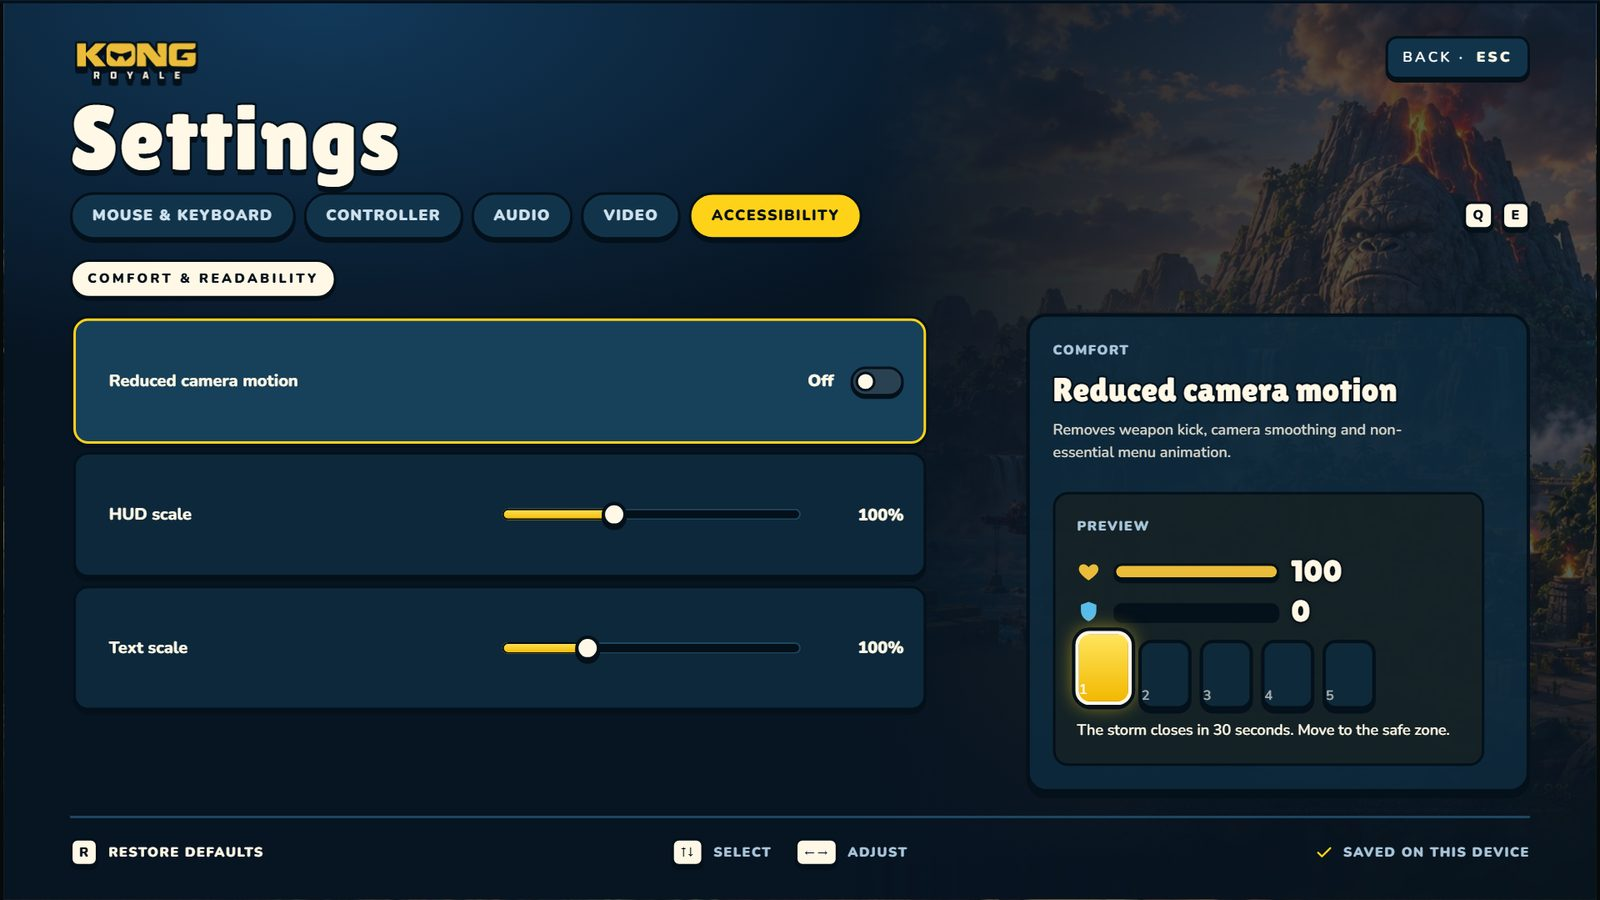
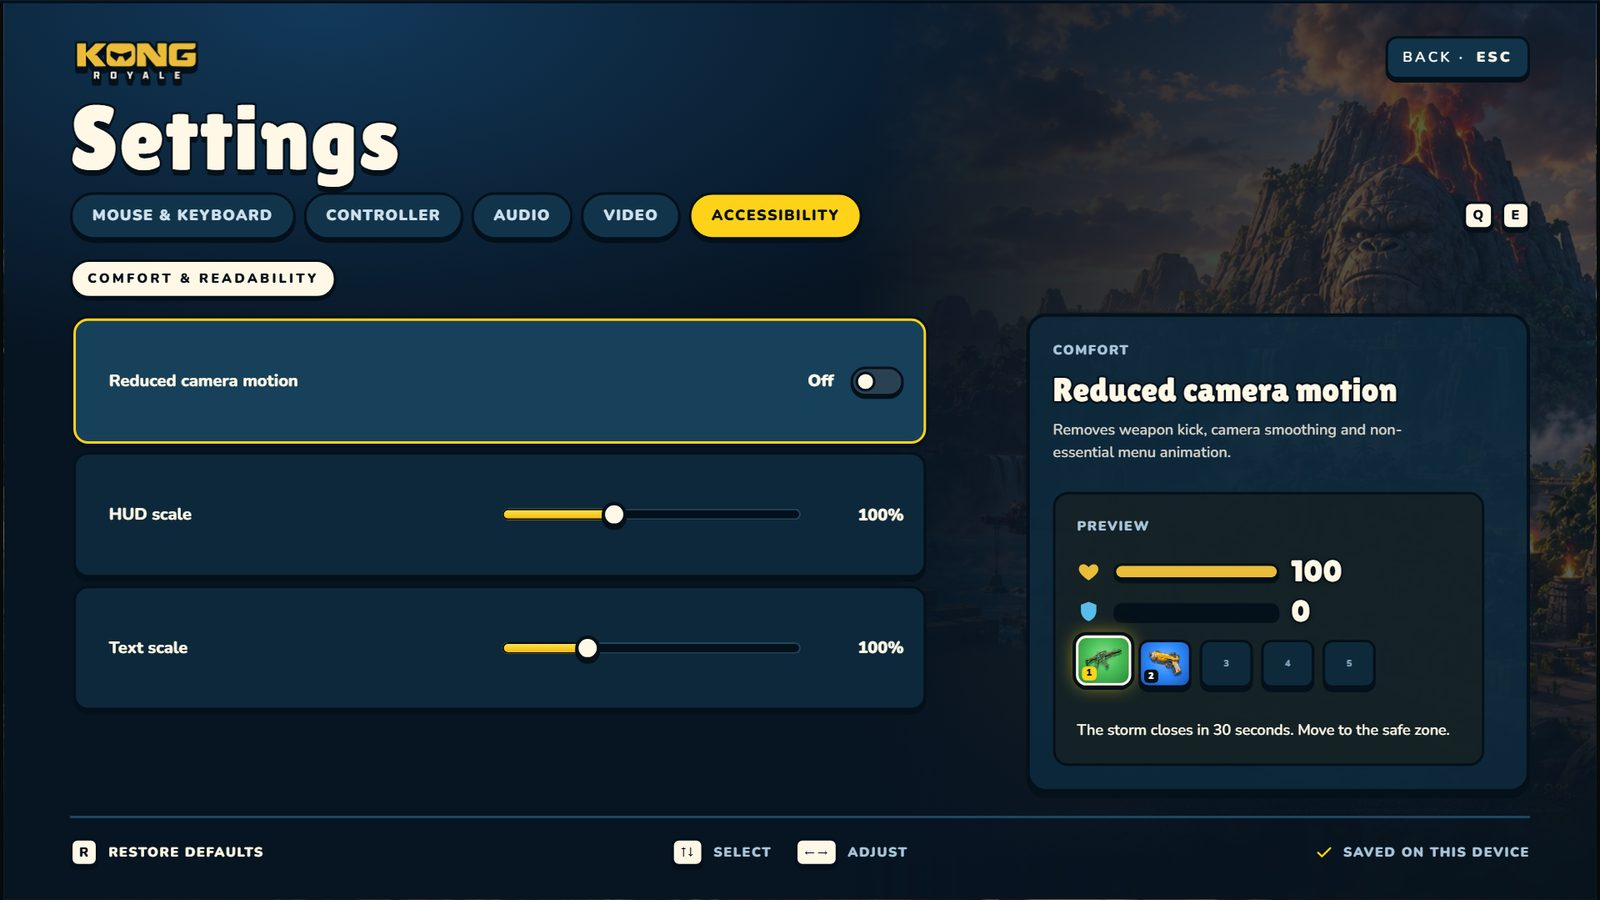
Rarity weapon tiles in the accessibility HUD preview
The HUD and the Accessibility preview now share one weapon-slot markup,
so the preview shows item art on rarity tiles in Toon (smaller size,
centred numbers in empty slots). Toon screens and Codex bundle updated.

Changed region(s): [[0.6562, 0.6844, 0.8438, 0.8089]]

diff --git a/js/game.js b/js/game.js
@@ -499,6 +499,11 @@ window.Game = (function () {
   function renderWorld() {
     L.base.innerHTML = `<div class="hud-world" id="world" style="background-image:url(img/art/range.jpg)"></div><div class="hurt" id="hurt"></div><div class="heal-glow" id="heal-glow"></div>`;
   }
+  // One weapon-slot markup for the HUD and the accessibility preview (Toon shows art on rarity tiles).
+  function slotHtml(id, i, small) {
+    const it = id && K.items[id];
+    return `<div class="slot ${id && id === S.equipped ? "on" : ""} ${it ? "r-" + it.rarity.toLowerCase() : "empty"} ${small ? "sm" : ""}"><div class="ic">${slotIcon(id)}</div>${it ? `<img class="slot-art" src="${it.img}" alt="">` : ""}<span class="slot-n">${i + 1}</span></div>`;
+  }
   function slotIcon(id) { return id === "bunchgun" ? I.rifle : id === "nub" ? I.pistol : "<i></i>"; }
   function renderHud() {
     const minimapX = (ME.x - 300) / 880 * 232, minimapY = (ME.y - 120) / 720 * 190;
@@ -550,7 +555,7 @@ window.Game = (function () {
     } else { hudEls.ammo.innerHTML = `<b>–</b>`; hudEls.wn.textContent = "Unarmed"; }
     hudEls.rl.hidden = !(S.reloadUntil > now());
     if (full) {
-      hudEls.slots.innerHTML = S.inv.map((id, i) => { const it = id && K.items[id]; return `<div class="slot ${id && id === S.equipped ? "on" : ""} ${it ? "r-" + it.rarity.toLowerCase() : "empty"}"><div class="ic">${slotIcon(id)}</div>${it ? `<img class="slot-art" src="${it.img}" alt="">` : ""}<span class="slot-n">${i + 1}</span>${it && S.mode !== "range" ? "" : ""}</div>`; }).join("");
+      hudEls.slots.innerHTML = S.inv.map((id, i) => slotHtml(id, i)).join("");
       if (S.marker) { hudEls.mpin.hidden = false; hudEls.mpin.style.left = (S.marker.x - 300) / 880 * 232 + "px"; hudEls.mpin.style.top = (S.marker.y - 120) / 720 * 190 + "px"; } else hudEls.mpin.hidden = true;
       renderHints();
     }
@@ -1103,7 +1108,7 @@ window.Game = (function () {
     if (kind === "mouse") return `<svg width="300" height="220" viewBox="0 0 300 220" fill="none" stroke="#EEEADF" stroke-width="2"><path d="M60 120a90 70 0 01180 0" stroke="#EABC39" stroke-dasharray="4 6" stroke-width="2"/><path d="M48 150a102 80 0 0122-70M252 150a102 80 0 00-22-70" stroke="#A5B1A4"/><path d="M62 86l8-8 4 11M238 86l-8-8-4 11" stroke="#A5B1A4"/><rect x="120" y="70" width="60" height="120" rx="30"/><path d="M150 70v40M120 110h60"/><rect x="145" y="82" width="10" height="18" rx="5"/><path d="M150 40v18" stroke="#EABC39"/><text x="150" y="214" fill="#A5B1A4" stroke="none" font-family="Barlow Semi Condensed" font-size="16" text-anchor="middle" letter-spacing="2">${esc(fmtVal(ROWS.mouseSens))} · ${S.set.invertY === "On" ? "INVERTED" : "STANDARD"}</text></svg>`;
     if (kind === "speaker") { const m = S.set.master; const n = m === 0 ? 0 : m < 34 ? 1 : m < 67 ? 2 : 3; return `<svg width="280" height="160" viewBox="0 0 280 160" fill="none" stroke-width="3"><path d="M40 60h30l40-32v104L70 100H40z" stroke="#EEEADF"/>${[0, 1, 2].map((i) => `<path d="M${130 + i * 26} ${50 - i * 14}a${40 + i * 26} ${40 + i * 26} 0 010 ${60 + i * 28}" stroke="${i < n ? "#EABC39" : "#3A4547"}"/>`).join("")}${m === 0 ? '<path d="M140 55l50 50M190 55l-50 50" stroke="#FF8C88"/>' : ""}<text x="40" y="156" fill="#A5B1A4" stroke="none" font-family="Barlow Semi Condensed" font-size="16" letter-spacing="2">MASTER ${m}%</text></svg>`; }
     if (kind === "fov") { const f = S.set.fov; const a = (deg) => { const rad = deg / 2 * Math.PI / 180; return [140 + Math.sin(rad) * 160, 190 - Math.cos(rad) * 160, 140 - Math.sin(rad) * 160]; }; const [x1, y1, x2] = a(f), [g1, h1, g2] = a(90); return `<svg width="300" height="220" viewBox="0 0 280 220" fill="none"><path d="M140 190L${g1} ${h1}M140 190L${g2} ${h1}" stroke="#A5B1A4" stroke-dasharray="4 6" stroke-width="2"/><path d="M140 190L${x1} ${y1}A160 160 0 00${x2} ${y1}Z" fill="rgba(234,188,57,.12)" stroke="#EABC39" stroke-width="2"/><circle cx="140" cy="190" r="7" fill="#EEEADF"/><text x="140" y="216" fill="#EEEADF" font-family="Barlow Semi Condensed" font-size="17" text-anchor="middle" letter-spacing="2">${Math.round(f)}° HORIZONTAL · DASHED 90°</text></svg>`; }
-    if (kind === "a11y") { const hs = S.set.hudScale / 100; return `<div class="viz-prev"><div class="k-eyebrow">Preview</div><div style="height:${176 * hs}px"><div style="transform:scale(${hs});transform-origin:0 0;width:360px"><div class="vital h" style="grid-template-columns:30px 200px auto;display:grid;gap:14px;align-items:center">${I.heart}<div class="bar"><i style="width:${S.health}%;background:#EABC39"></i></div><b>${Math.round(S.health)}</b></div><div class="vital s" style="grid-template-columns:30px 200px auto;display:grid;gap:14px;align-items:center;margin-top:8px">${I.shield}<div class="bar"><i style="width:${S.shield}%"></i></div><b>${Math.round(S.shield)}</b></div><div class="slots" style="margin-top:14px">${S.inv.map((id, i) => `<div class="slot ${id && id === S.equipped ? "on" : ""}" style="width:64px"><div class="ic">${slotIcon(id)}</div>${i + 1}</div>`).join("")}</div></div></div><div class="specimen">The storm closes in 30 seconds. Move to the safe zone.</div></div>`; }
+    if (kind === "a11y") { const hs = S.set.hudScale / 100; return `<div class="viz-prev"><div class="k-eyebrow">Preview</div><div style="height:${176 * hs}px"><div style="transform:scale(${hs});transform-origin:0 0;width:360px"><div class="vital h" style="grid-template-columns:30px 200px auto;display:grid;gap:14px;align-items:center">${I.heart}<div class="bar"><i style="width:${S.health}%;background:#EABC39"></i></div><b>${Math.round(S.health)}</b></div><div class="vital s" style="grid-template-columns:30px 200px auto;display:grid;gap:14px;align-items:center;margin-top:8px">${I.shield}<div class="bar"><i style="width:${S.shield}%"></i></div><b>${Math.round(S.shield)}</b></div><div class="slots" style="margin-top:14px">${S.inv.map((id, i) => slotHtml(id, i, true)).join("")}</div></div></div><div class="specimen">The storm closes in 30 seconds. Move to the safe zone.</div></div>`; }
     if (kind === "pad") return padSvg();
     if (kind === "stick" || kind === "dead" || kind === "curve") return stickSvg(kind);
     if (kind === "mstats") {

diff --git a/index.html b/index.html
@@ -7,9 +7,9 @@
 <link rel="preconnect" href="https://fonts.googleapis.com">
 <link rel="preconnect" href="https://fonts.gstatic.com" crossorigin>
 <link rel="stylesheet" href="https://fonts.googleapis.com/css2?family=Changa+One:ital@0;1&family=Lilita+One&family=Nunito:wght@600;700;800;900&family=Barlow:wght@400;500;600;700&family=Barlow+Semi+Condensed:wght@500;600;700&family=JetBrains+Mono:wght@400;500&display=swap">
-<link rel="stylesheet" href="css/site.css?v=20261012d">
-<link rel="stylesheet" href="css/game.css?v=20261012d">
-<link rel="stylesheet" href="css/toon.css?v=20261012d">
+<link rel="stylesheet" href="css/site.css?v=20261012f">
+<link rel="stylesheet" href="css/game.css?v=20261012f">
+<link rel="stylesheet" href="css/toon.css?v=20261012f">
 
 <div id="app">
   <header class="topbar" id="topbar">
@@ -74,7 +74,7 @@
 
 <script src="https://cdnjs.cloudflare.com/ajax/libs/marked/12.0.2/marked.min.js"></script>
 <script src="https://cdnjs.cloudflare.com/ajax/libs/jszip/3.10.1/jszip.min.js"></script>
-<script src="js/data.js?v=20261012d"></script>
-<script src="js/gameplay.js?v=20261012d"></script>
-<script src="js/game.js?v=20261012d"></script>
-<script src="js/site.js?v=20261012d"></script>
+<script src="js/data.js?v=20261012f"></script>
+<script src="js/gameplay.js?v=20261012f"></script>
+<script src="js/game.js?v=20261012f"></script>
+<script src="js/site.js?v=20261012f"></script>

diff --git a/css/toon.css b/css/toon.css
@@ -366,3 +366,8 @@ html[data-ds="toon"] .stage .k-card:not(.empty), html[data-ds="toon"] .k-scope .
 html[data-ds="toon"] .stage .k-card.r-common .art, html[data-ds="toon"] .k-scope .k-card.r-common .art { background: radial-gradient(ellipse 70% 80% at 50% 45%, #8BE08F 0%, #4CC35A 45%, #2C8A3A 100%); }
 html[data-ds="toon"] .stage .k-card.r-rare .art, html[data-ds="toon"] .k-scope .k-card.r-rare .art { background: radial-gradient(ellipse 70% 80% at 50% 45%, #7FB8FF 0%, #2F8BFF 45%, #1A56B8 100%); }
 html[data-ds="toon"] .stage .k-card .art img, html[data-ds="toon"] .k-scope .k-card .art img { filter: drop-shadow(0 5px 0 rgba(4,16,26,.55)); }
+html[data-ds="toon"] .stage .slot.sm { width: 64px; height: 58px; border-radius: 12px; border-width: 3px; }
+html[data-ds="toon"] .stage .slot.sm .slot-art { top: 5px; bottom: 12px; height: calc(100% - 17px); }
+html[data-ds="toon"] .stage .slot.sm .slot-n { min-width: 16px; height: 16px; font-size: 11px; line-height: 16px; left: 4px; bottom: 3px; border-radius: 5px; }
+html[data-ds="toon"] .stage .slot.sm.on { transform: translateY(-4px) scale(1.04); }
+html[data-ds="toon"] .stage .slot.sm.empty .slot-n { left: 50%; bottom: 50%; transform: translateX(-50%); margin-bottom: -8px; }

diff --git a/design/kong-toon/reference/toon-prototype.css b/design/kong-toon/reference/toon-prototype.css
@@ -366,3 +366,8 @@ html[data-ds="toon"] .stage .k-card:not(.empty), html[data-ds="toon"] .k-scope .
 html[data-ds="toon"] .stage .k-card.r-common .art, html[data-ds="toon"] .k-scope .k-card.r-common .art { background: radial-gradient(ellipse 70% 80% at 50% 45%, #8BE08F 0%, #4CC35A 45%, #2C8A3A 100%); }
 html[data-ds="toon"] .stage .k-card.r-rare .art, html[data-ds="toon"] .k-scope .k-card.r-rare .art { background: radial-gradient(ellipse 70% 80% at 50% 45%, #7FB8FF 0%, #2F8BFF 45%, #1A56B8 100%); }
 html[data-ds="toon"] .stage .k-card .art img, html[data-ds="toon"] .k-scope .k-card .art img { filter: drop-shadow(0 5px 0 rgba(4,16,26,.55)); }
+html[data-ds="toon"] .stage .slot.sm { width: 64px; height: 58px; border-radius: 12px; border-width: 3px; }
+html[data-ds="toon"] .stage .slot.sm .slot-art { top: 5px; bottom: 12px; height: calc(100% - 17px); }
+html[data-ds="toon"] .stage .slot.sm .slot-n { min-width: 16px; height: 16px; font-size: 11px; line-height: 16px; left: 4px; bottom: 3px; border-radius: 5px; }
+html[data-ds="toon"] .stage .slot.sm.on { transform: translateY(-4px) scale(1.04); }
+html[data-ds="toon"] .stage .slot.sm.empty .slot-n { left: 50%; bottom: 50%; transform: translateX(-50%); margin-bottom: -8px; }

diff --git a/css/game.css b/css/game.css
@@ -701,3 +701,4 @@
 
 /* weapon slot art: Premium keeps the line icons; Toon shows item art on rarity tiles */
 .slot .slot-art { display: none; }
+.slot.sm { width: 64px; }

diff --git a/design/kong-toon/reference/base-components.css b/design/kong-toon/reference/base-components.css
@@ -701,3 +701,4 @@
 
 /* weapon slot art: Premium keeps the line icons; Toon shows item art on rarity tiles */
 .slot .slot-art { display: none; }
+.slot.sm { width: 64px; }
